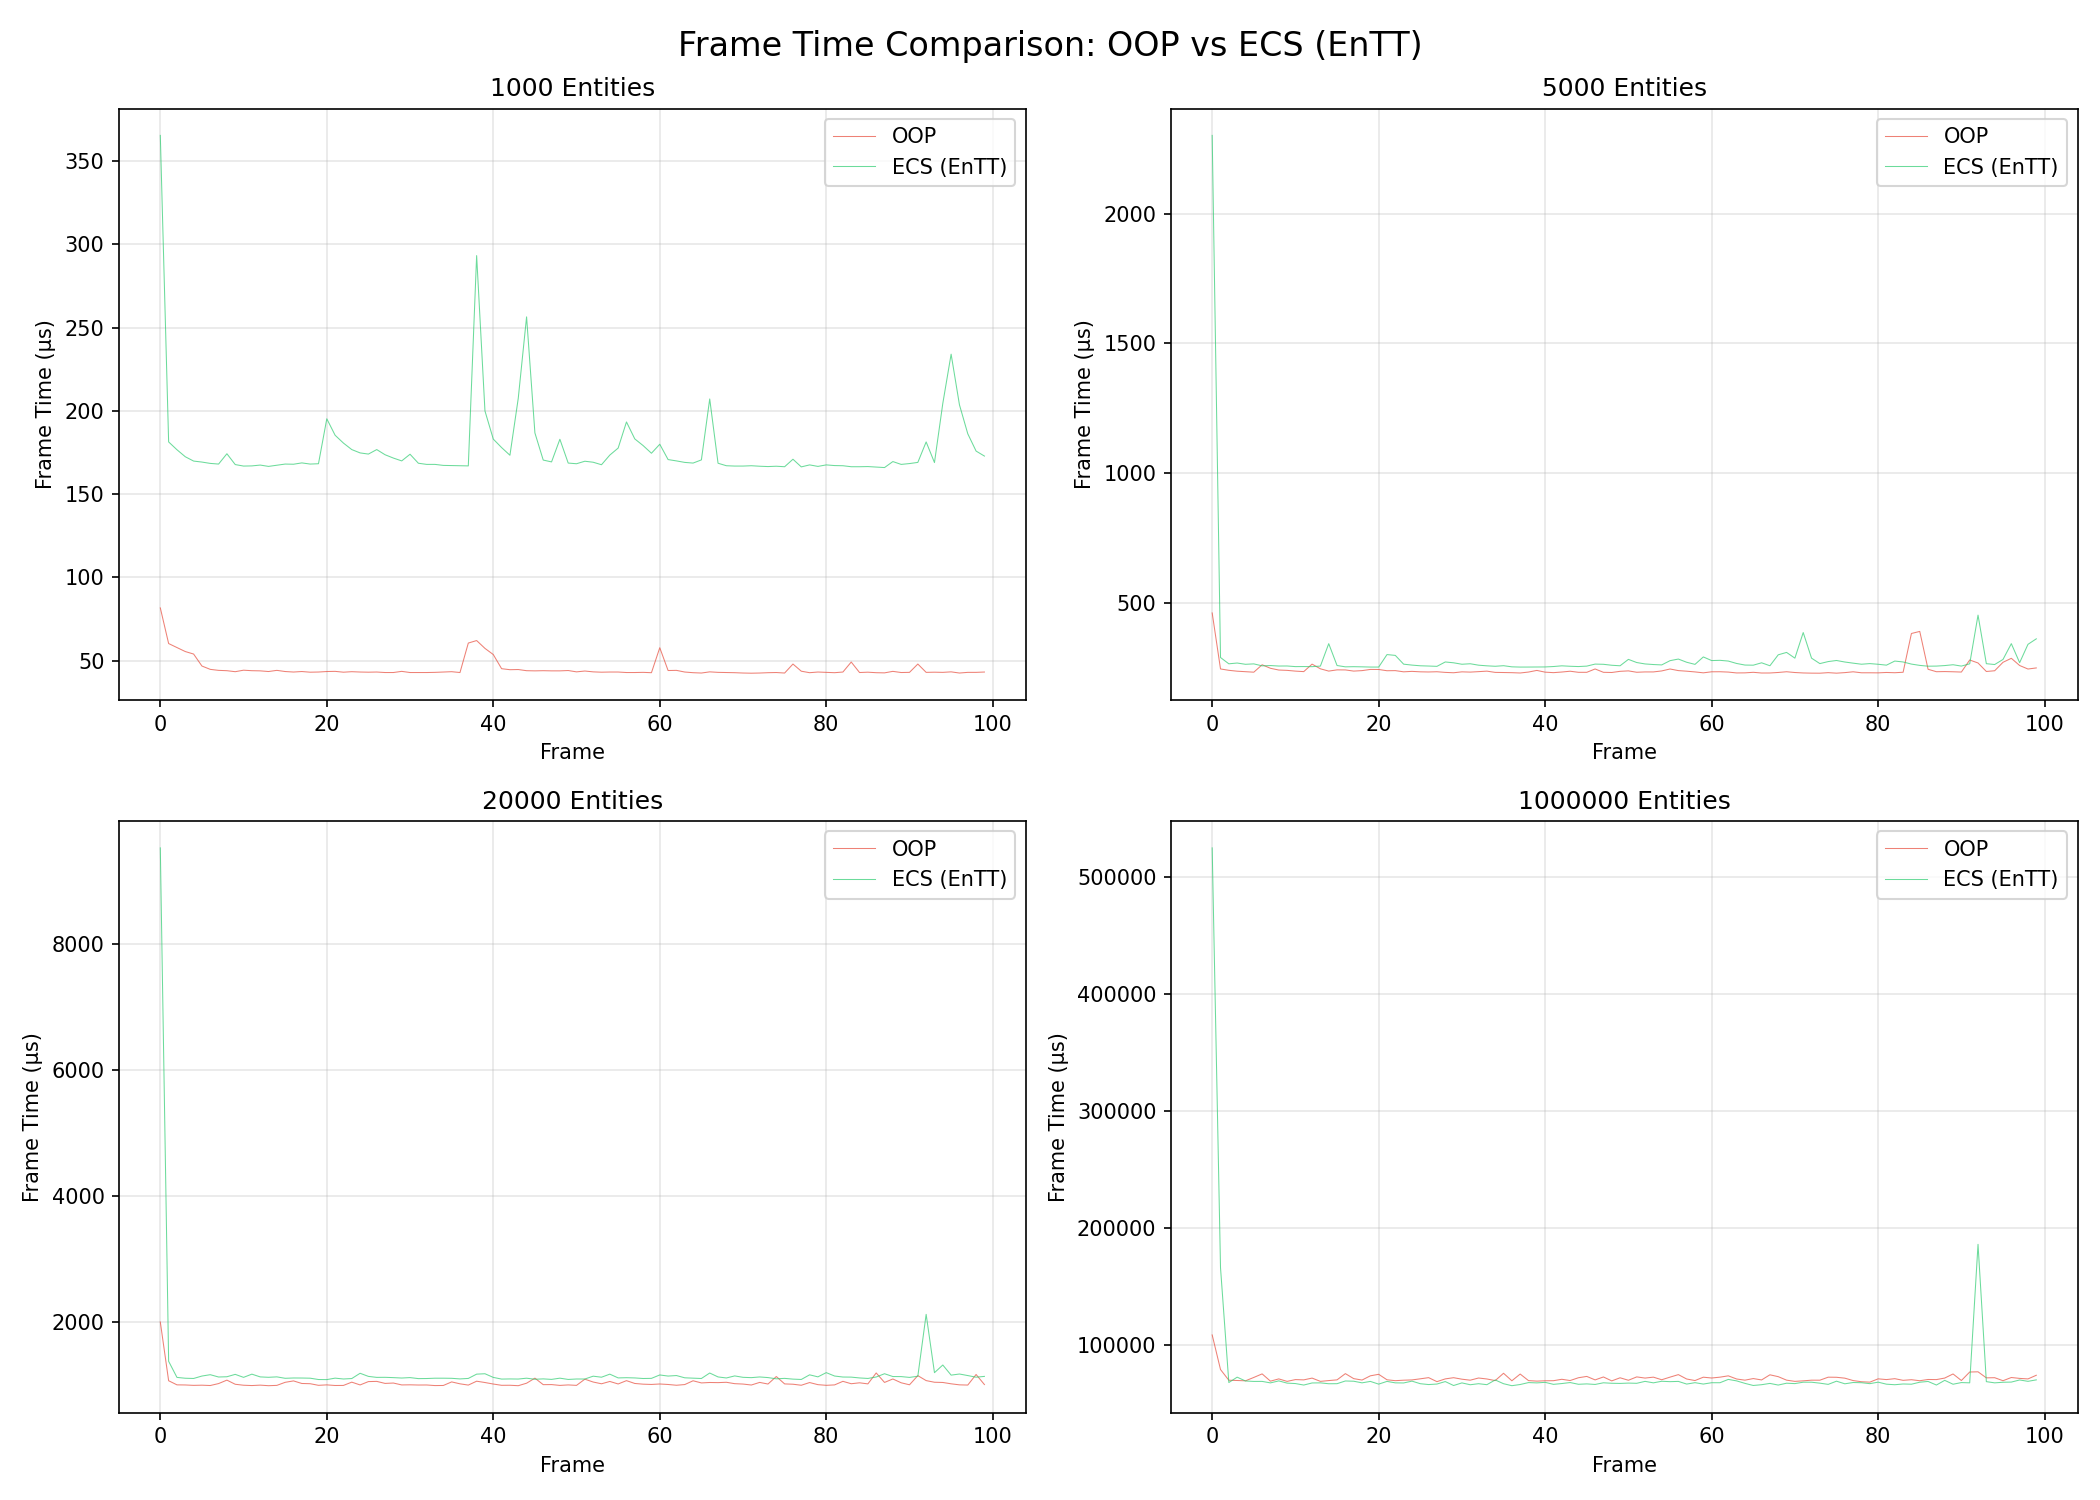
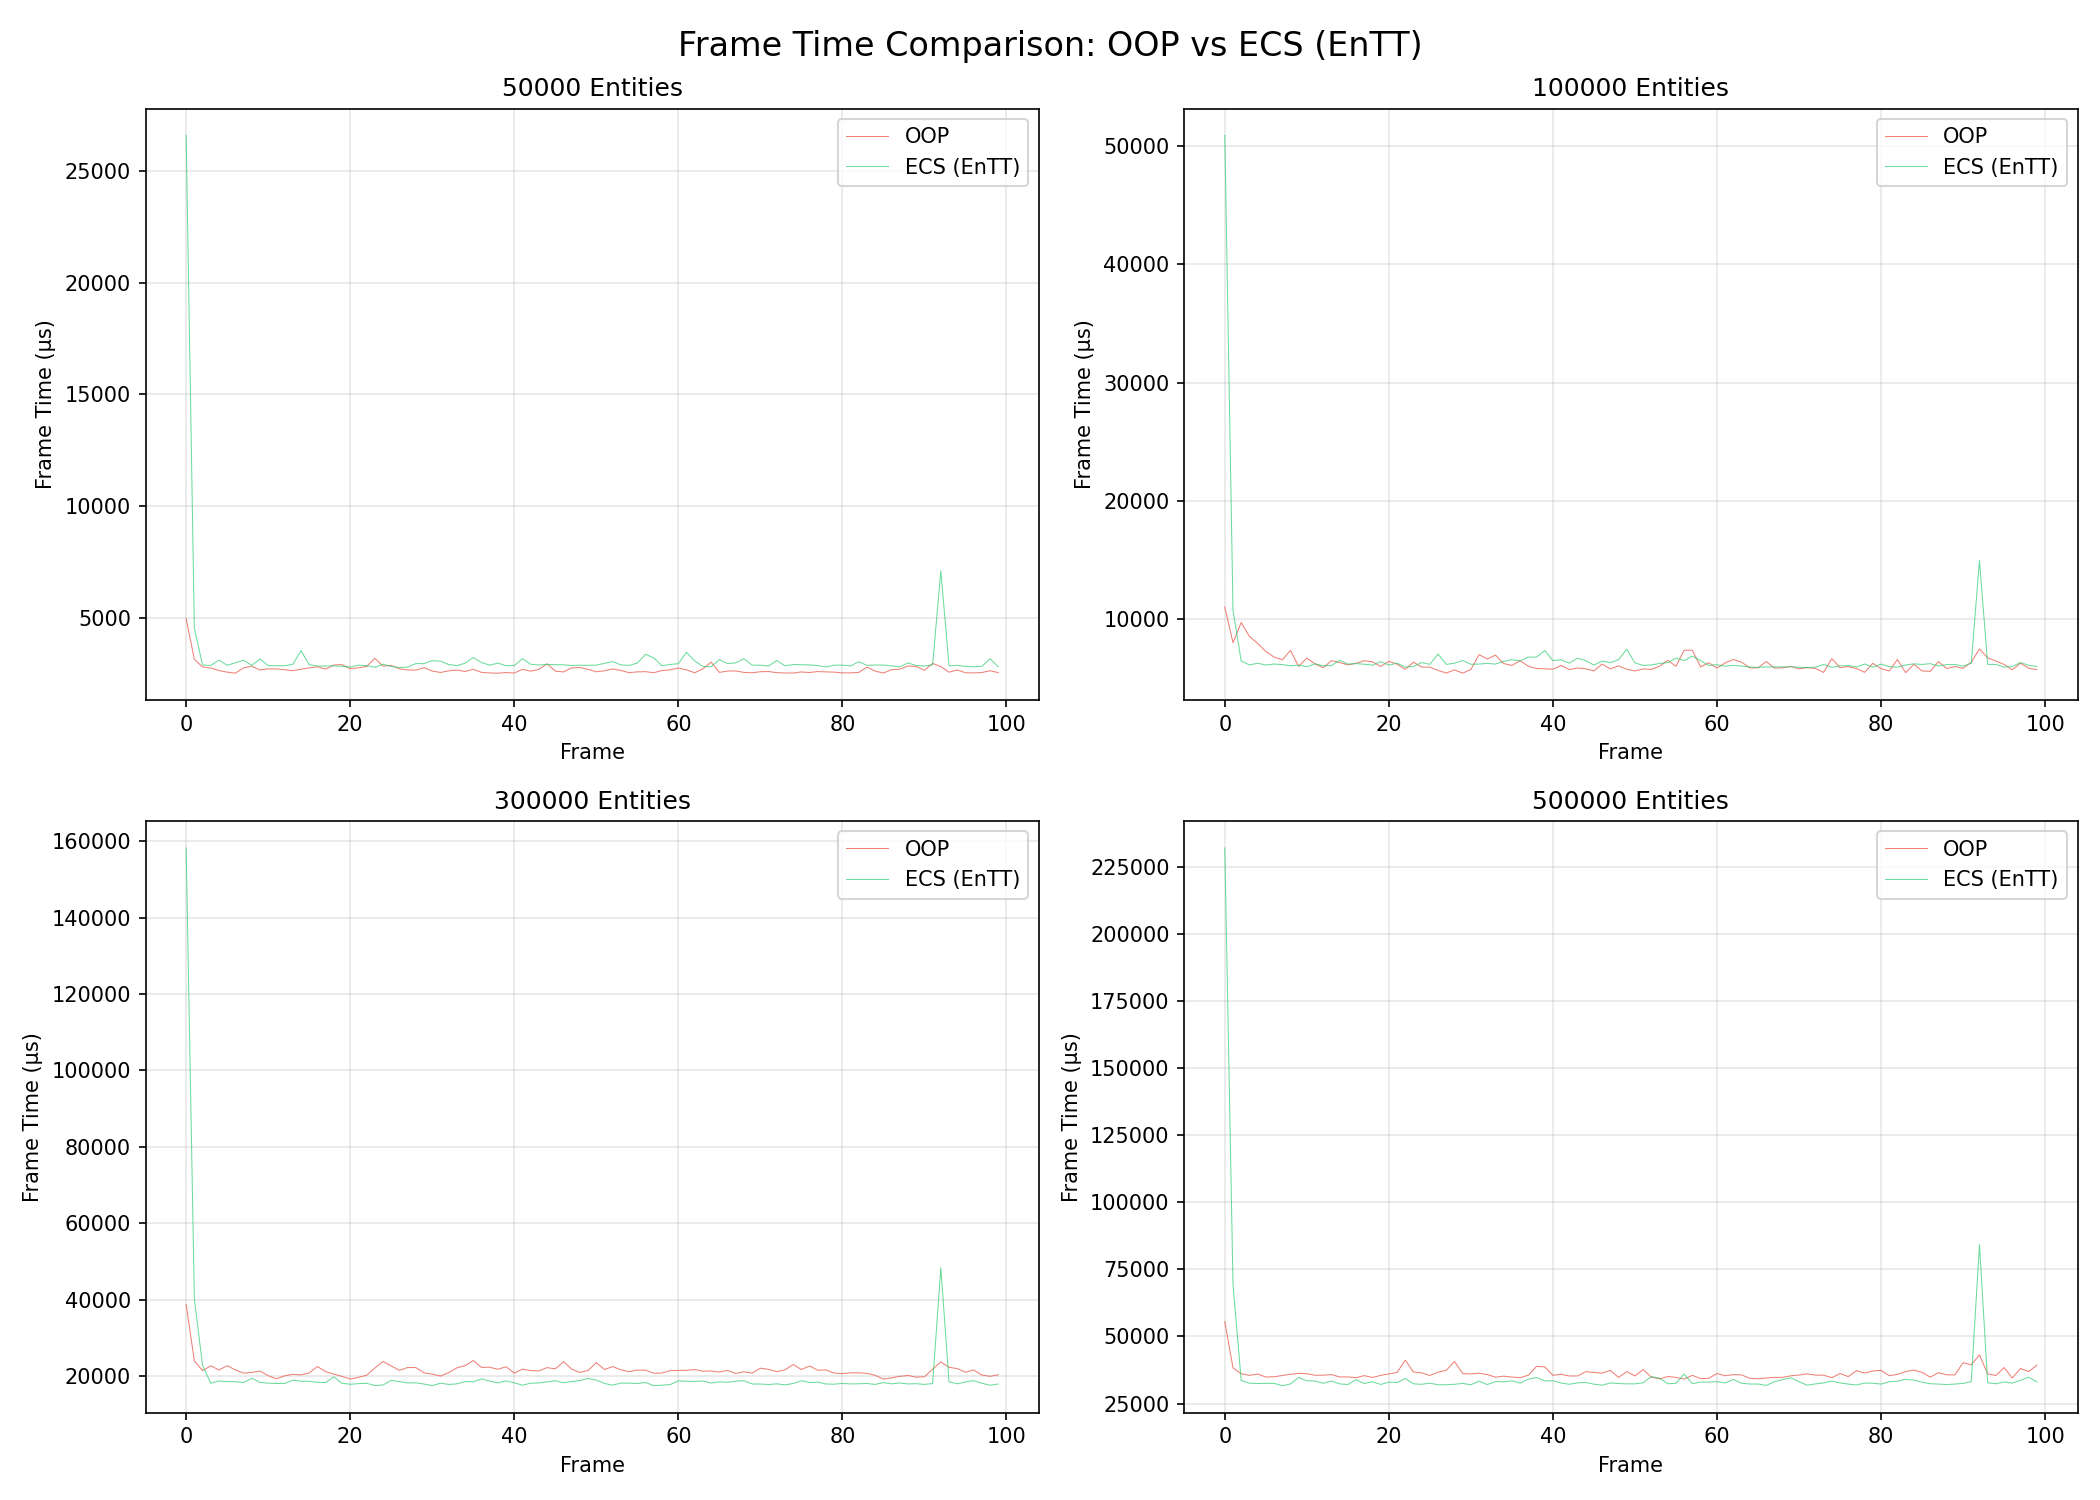
Update benchmark configurations and results: adjust entity counts and replace performance images

diff --git a/shared/benchmark_config.hpp b/shared/benchmark_config.hpp
@@ -17,10 +17,10 @@ enum class BenchmarkScale : uint8_t {
 // 规模对应的实体数量
 inline size_t getEntityCount(BenchmarkScale scale) {
     switch (scale) {
-        case BenchmarkScale::Small:   return 1000;
-        case BenchmarkScale::Medium:  return 5000;
-        case BenchmarkScale::Large:   return 20000;
-        case BenchmarkScale::XLarge:  return 1000000;
+        case BenchmarkScale::Small:   return 50000;
+        case BenchmarkScale::Medium:  return 100000;
+        case BenchmarkScale::Large:   return 300000;
+        case BenchmarkScale::XLarge:  return 500000;
         default: return 100;
     }
 }
